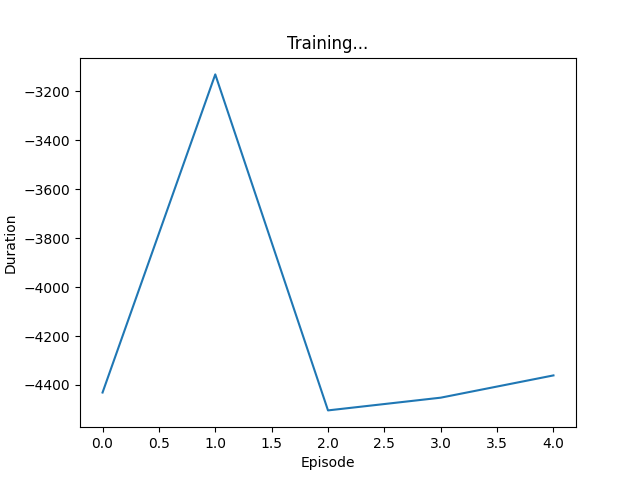
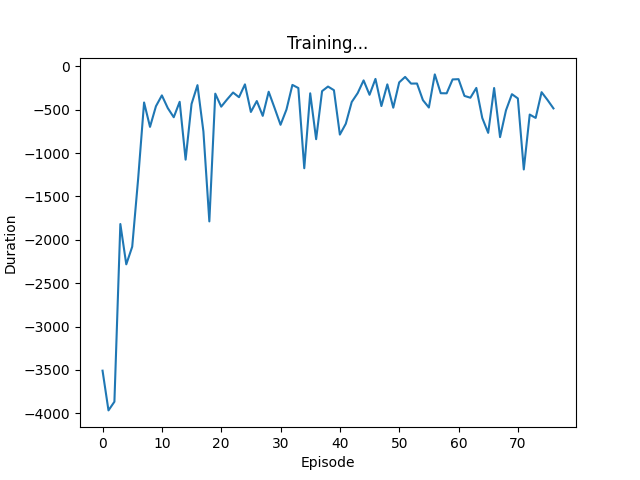
simple work version

diff --git a/environment.py b/environment.py
@@ -357,7 +357,7 @@ class Environment:
             person.get_covid()
         
         if self.debug:
-            self.print_time()
+            print(self.time)
             print("covid version", self.covid_version, "vaccine version", vaccine_version)
             print("covid", self.total_covid_counts[-1], "death", accu_death_count, "recover",\
                     accu_recover_count, "healthy", healthy_count, "latest vaccine count", vaccine_count )
@@ -428,6 +428,7 @@ class Environment:
 # ==========================================================================================================
 
 device = torch.device("cuda" if torch.cuda.is_available() else "cpu")
+print(device)
 
 Transition = namedtuple('Transition',('state', 'action', 'next_state', 'reward'))
 
@@ -449,9 +450,10 @@ class DQN(nn.Module):
 
     def __init__(self, inputs, outputs):
         super(DQN, self).__init__()
-        self.fc1 = nn.Linear(inputs, 128)
-        self.fc2 = nn.Linear(128, 128)
-        self.fc3 = nn.Linear(128, outputs)
+        self.fc1 = nn.Linear(inputs, 256)
+        self.fc2 = nn.Linear(256, 512)
+        self.fc3 = nn.Linear(512, 128)
+        self.fc4 = nn.Linear(128, outputs)
 
     # Called with either one element to determine next action, or a batch
     # during optimization. Returns tensor([[left0exp,right0exp]...]).
@@ -459,7 +461,8 @@ class DQN(nn.Module):
         x = x.to(device)
         x = F.relu(self.fc1(x))
         x = F.relu(self.fc2(x))
-        return self.fc3(x)
+        x = F.relu(self.fc3(x))
+        return self.fc4(x)
 
 BATCH_SIZE = 128
 GAMMA = 0.999
@@ -477,7 +480,7 @@ target_net.load_state_dict(policy_net.state_dict())
 target_net.eval()
 
 optimizer = optim.RMSprop(policy_net.parameters())
-memory = ReplayMemory(10000)
+memory = ReplayMemory(100000)
 
 def select_action(state, steps_done):
     sample = random.random()
@@ -498,7 +501,7 @@ def plot_durations():
     durations_t = torch.tensor(episode_durations, dtype=torch.float)
     plt.title('Training...')
     plt.xlabel('Episode')
-    plt.ylabel('Duration')
+    plt.ylabel('Reward')
     plt.plot(durations_t.numpy())
     # Take 100 episode averages and plot them too
     if len(durations_t) >= 100:
@@ -507,7 +510,7 @@ def plot_durations():
         plt.plot(means.numpy())
 
     plt.pause(0.001)  # pause a bit so that plots are updated
-    plt.savefig('test.png')
+    plt.savefig('test_cuda.png')
 
 def optimize_model():
     if len(memory) < BATCH_SIZE:
@@ -564,7 +567,7 @@ def main():
     # training code             |
     #============================
     steps_done = 0
-    num_episodes = 10
+    num_episodes = 100
     for i_episode in range(num_episodes):
         env = Environment(locations, people)
         reset_global_for_environment()
@@ -573,7 +576,7 @@ def main():
         accumulate_reward = 0
         while not done:
             action = select_action(state, steps_done)
-            print(action, steps_done, i_episode)
+            # print(action, steps_done, i_episode)
             steps_done += 1
             next_state, reward, done = env.step(action.item())
             accumulate_reward += reward
@@ -587,10 +590,12 @@ def main():
         plot_durations()
         if i_episode % TARGET_UPDATE == 0:
             target_net.load_state_dict(policy_net.state_dict())
+        print(i_episode, steps_done)
 
     #============================
     # debug code                |
     #============================
+    # acc_reward = 0
     # env = Environment(locations, people, True)
     # while True:
     #     # input("Hit Enter to continue...\n")
@@ -598,10 +603,12 @@ def main():
     #     #         env.plot()
     #     #         continue
     #     # actions = list(map(int, list(input("Enter your actions:"))))
-    #     _, reward, done = env.step(random.randrange(8))
+    #     _, reward, done = env.step(7)
+    #     acc_reward+=reward
     #     print(reward)
     #     if(done):
     #         break
+    # print(acc_reward)
 
 if __name__ == "__main__":
     main()

diff --git a/README.md b/README.md
@@ -1,4 +1,4 @@
-- [x] investigate DQN
+- [x] ~investigate DQN~
 - [x] ~~recovery related to age gender https://www.ncbi.nlm.nih.gov/pmc/articles/PMC7229949/~~
 - [x] ~~death related to age gender~~
 - [x] ~~vaccination~~
@@ -10,6 +10,6 @@
     - [x] ~~vaccination related~~!still have todos!
     - [ ] more ?
 - [x] ~~implement mass initialization system~~
-- [ ] openai gym style observation and reward
+- [x] ~~openai gym style observation and reward~~
 - [x] accurate infection rate, mutate prob, etc
 - [x] add visualized output
